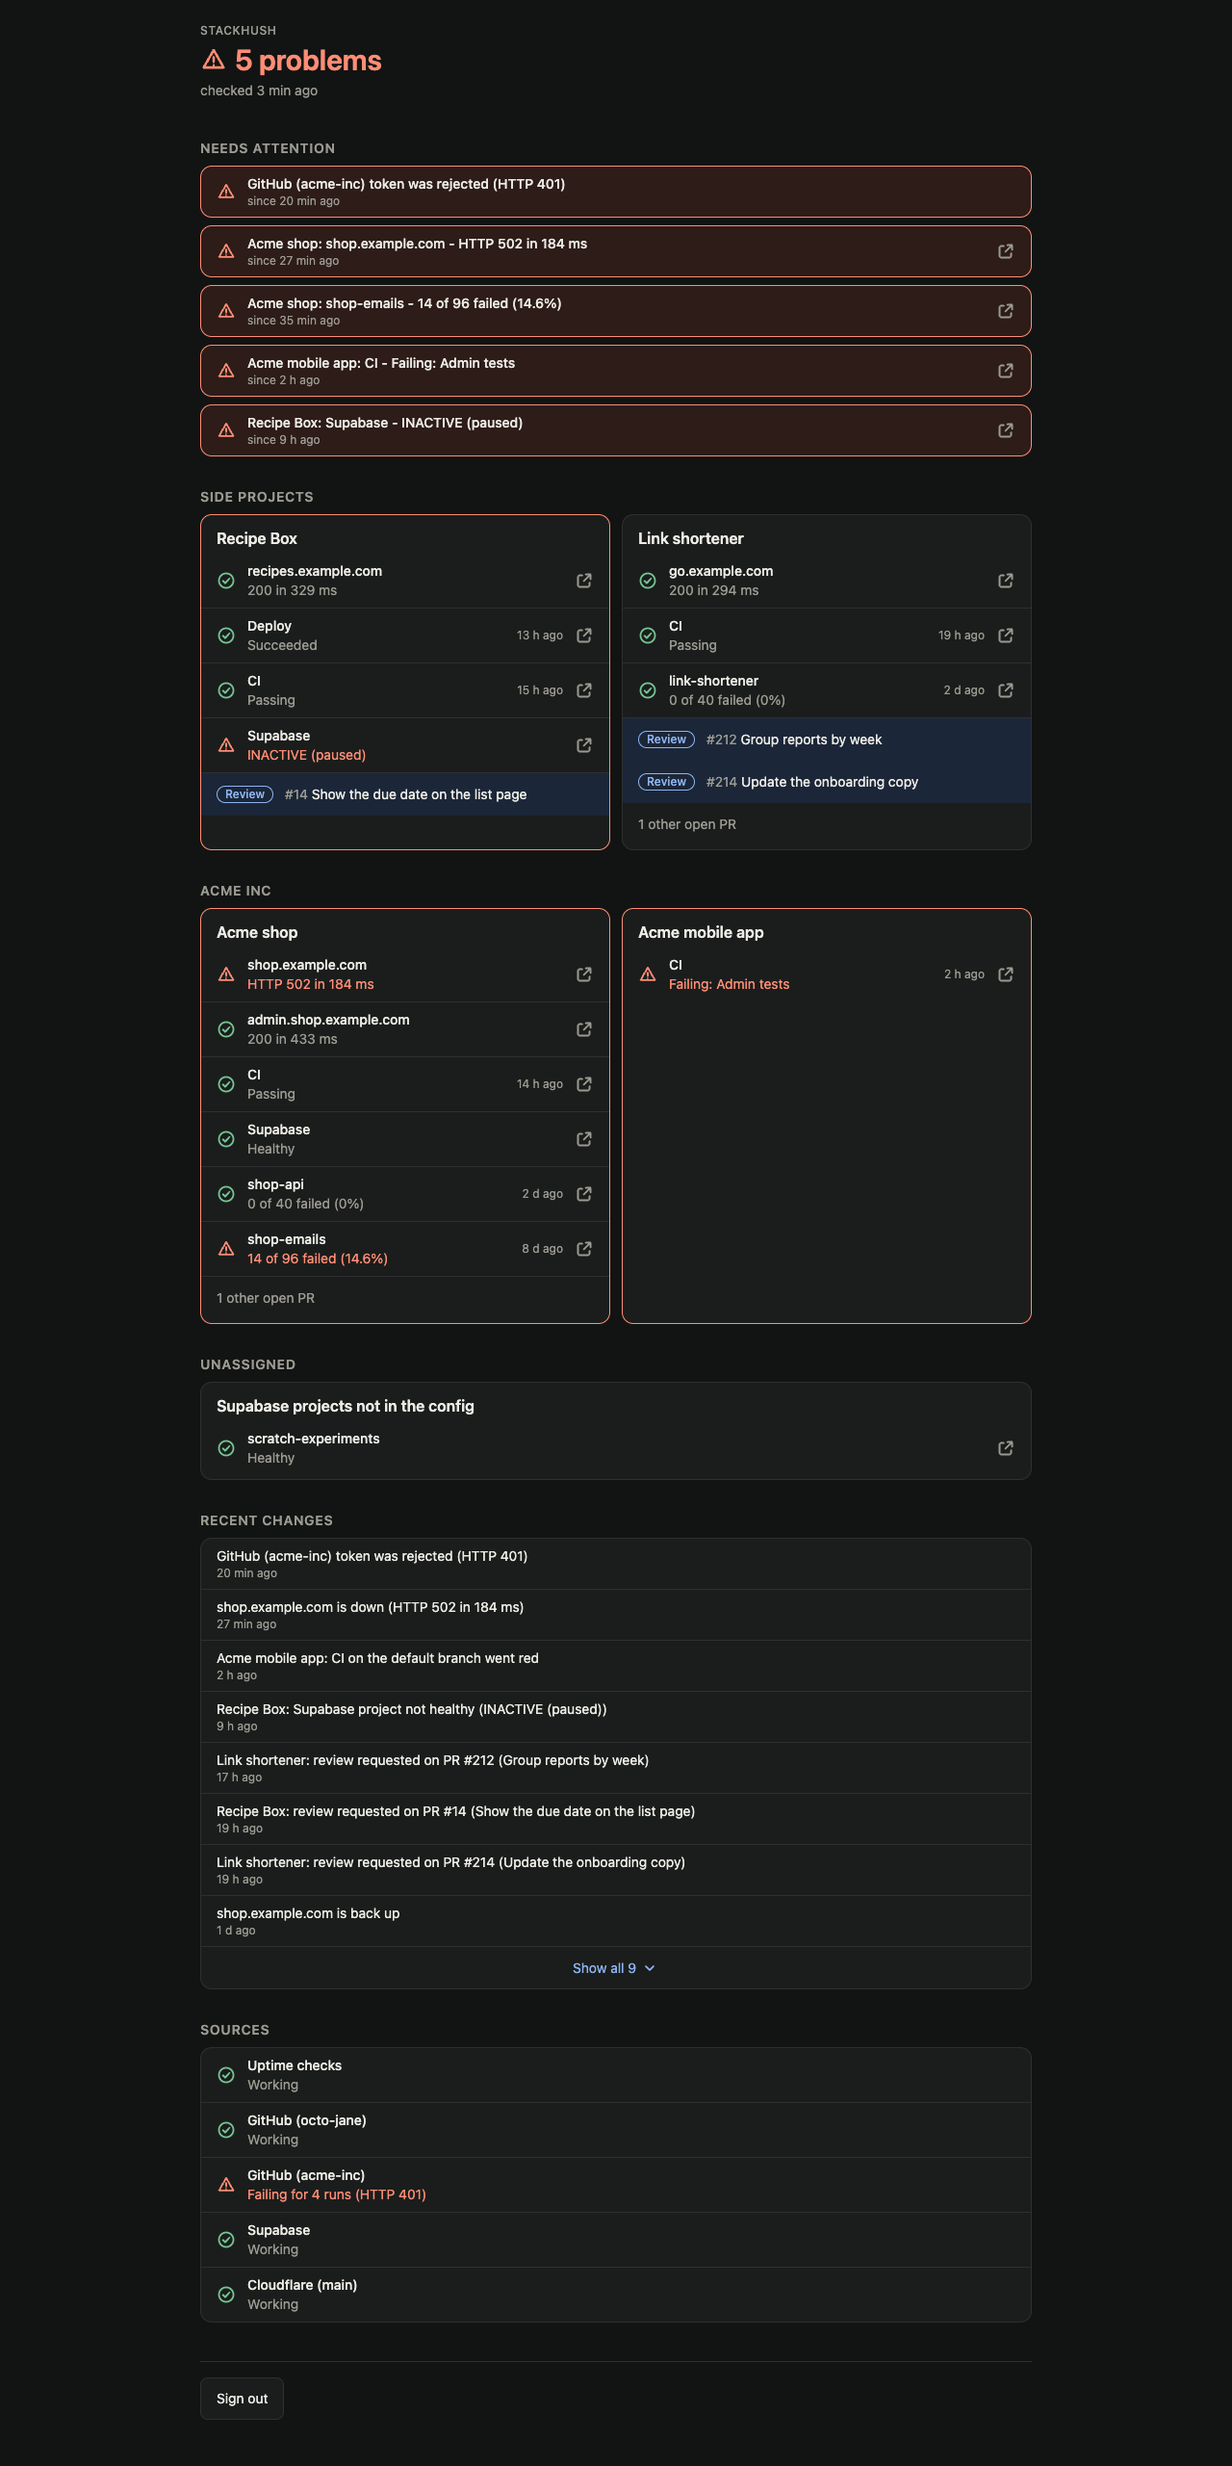
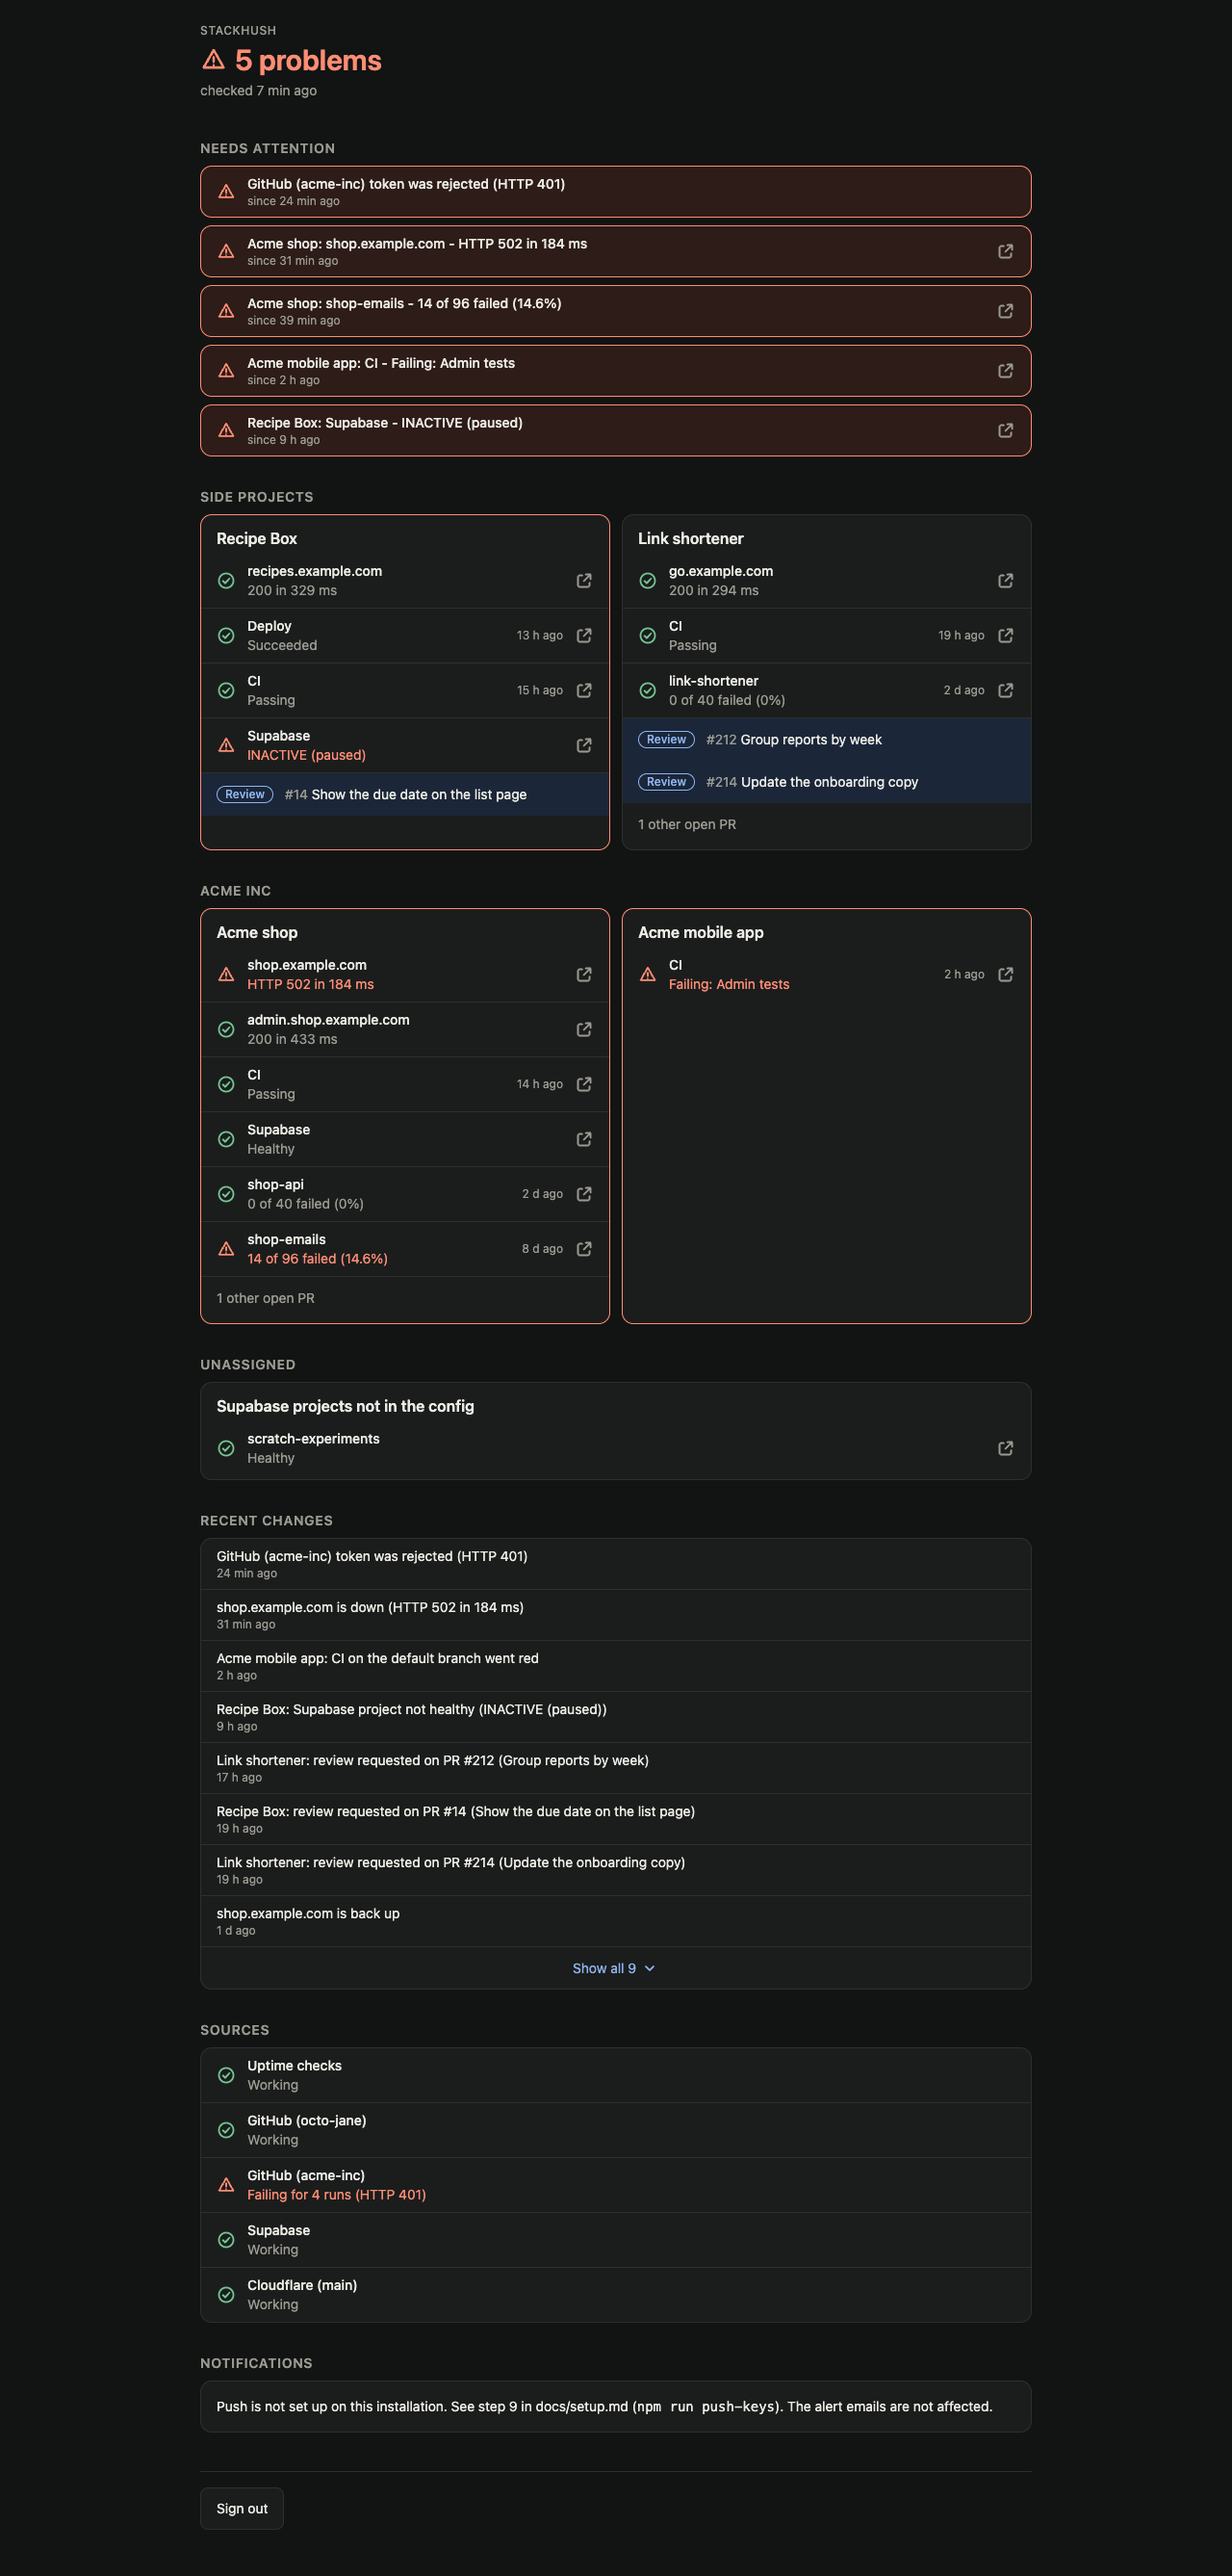
Document the PWA and refresh the screenshots

Changed region(s): [[0.1562, 0.0, 0.8438, 0.9371], [0.4688, 0.4373, 0.5, 0.4686], [0.4688, 0.3749, 0.5, 0.4061]]

diff --git a/README.md b/README.md
@@ -27,6 +27,22 @@ The screenshots show made-up projects from the example config (`npm run screensh
 them from `npm run seed:local`, with placeholder tokens so every source counts as set; no API is
 called).
 
+## On your phone
+
+Add the dashboard to your Home Screen and it works like an app:
+
+- Push notifications on the same events that send the alert email (optional, needs the keys of
+  [setup step 9](docs/setup.md#9-push-notifications-optional)).
+- A badge on the app icon with the number of current problems.
+- An offline view: without a network it shows the last status it loaded, marked "Offline, last
+  updated N min ago".
+- Proper icons.
+
+On iPhone and iPad, notifications and the badge only work in the Home Screen app, not in a
+Safari tab: add it first (Share, Add to Home Screen) and turn notifications on from there. Push
+is best effort; the email stays the record. See
+[docs/setup.md](docs/setup.md#10-notifications-on-the-phone).
+
 ## What it watches
 
 | Source               | What you see                                                                                            | Needs                                                 |
@@ -134,7 +150,6 @@ To report a vulnerability, see [SECURITY.md](SECURITY.md).
 
 ## Roadmap
 
-- Next: a PWA with in-page and push notifications, so alerts do not depend on email alone.
 - Later: webhooks for Slack, Discord and ntfy.
 
 ## Contributing

diff --git a/CLAUDE.md b/CLAUDE.md
@@ -79,6 +79,14 @@ observations) -> (new state, transitions)`; `worker/store.ts` does the D1 reads 
   (working, failing, not configured).
 - `worker/responses.ts` builds every API response with the security headers; `public/_headers`
   sets the same headers on static assets (`worker/headers.test.ts` keeps them in sync).
+- `public/sw.js` the service worker (plain JS, no build; served `Cache-Control: no-cache`). It
+  caches only the app shell (`stackhush-shell-<version>`) and the last good `/api/status`
+  (`stackhush-status-<version>`, served offline with an `X-Stackhush-Cached-At` header, dropped on
+  401), never an error or any other route; bump `VERSION` when its rules change.
+  `worker/serviceWorker.test.ts` runs it in a fake scope with synthetic push and click events.
+  `src/lib/push.ts` and `src/hooks/useNotifications.ts` are the page's side (subscribe, rotate on
+  a changed key, test, badge, sign-out cleanup); `src/components/Notifications.tsx` is the control.
+  `npm run icons` regenerates the PNG icons from `public/icon.svg` with headless Chrome.
 - `shared/api.ts` types for `GET /api/status`, used by both sides. Nothing private may live in
   `shared/`: it ships in the public bundle.
 - `migrations/` D1 schema. Tests run the real handler on these migrations via Node's SQLite

diff --git a/docs/setup.md b/docs/setup.md
@@ -274,6 +274,22 @@ Upgrading an installation from 0.1: `npm run deploy` applies the new migration
 (`0003_push.sql`) before it deploys. Nothing else is needed, and nothing changes until the keys
 are set.
 
+## 10. Notifications on the phone
+
+After step 9, open the dashboard on the phone and sign in.
+
+- **iPhone and iPad:** open it in Safari, choose Share, then Add to Home Screen, and open the
+  new icon. Notifications and the badge only work in that Home Screen app (iOS 16.4 or later).
+- **Android and desktop Chrome:** the browser works as it is; installing the page also works.
+
+At the bottom of the page, under Notifications, tap "Turn on notifications" and allow them when
+asked. "Send test notification" checks the whole path (5 an hour). "Turn off" and signing out
+both remove this device. If the page says push is not set up, step 9 is missing; if
+notifications are blocked, allow them in the browser or phone settings and reload.
+
+If you run `npm run push-keys` again, every device has to turn notifications off and on again
+(a device notices the new key by itself and subscribes again when the page is open).
+
 ## Bigger setups: the subrequest budget
 
 stackhush makes every check in every run. The Workers Free plan allows 50 subrequests per cron

diff --git a/CHANGELOG.md b/CHANGELOG.md
@@ -13,6 +13,16 @@
   redirects. Devices that do not fit get no notification and show as a problem on the
   dashboard; the email is always sent. Push is best effort and the email stays the record, see
   [docs/limits.md](docs/limits.md).
+- The dashboard is now a PWA: a service worker (`public/sw.js`) caches the app shell and the last
+  `/api/status` (nothing else), so the page opens offline with "Offline, last updated N min ago";
+  it shows push notifications, sets the app icon badge to the number of problems and focuses or
+  opens the dashboard when one is tapped.
+- A Notifications section at the bottom of the page: turn on (the permission is asked on that
+  tap), send a test, turn off. On iPhone and iPad it asks for the Home Screen app first. A device
+  whose subscription uses an older key subscribes again by itself. Signing out first removes
+  this device's subscription and clears the caches and the badge.
+- PNG icons (`apple-touch-icon.png`, 192, 512 and a maskable 512) made from `public/icon.svg` by
+  `npm run icons`; the manifest lists them.
 - New migration `0003_push.sql` (additive). `npm run deploy` applies it before deploying.
 
 ## 0.1.0
